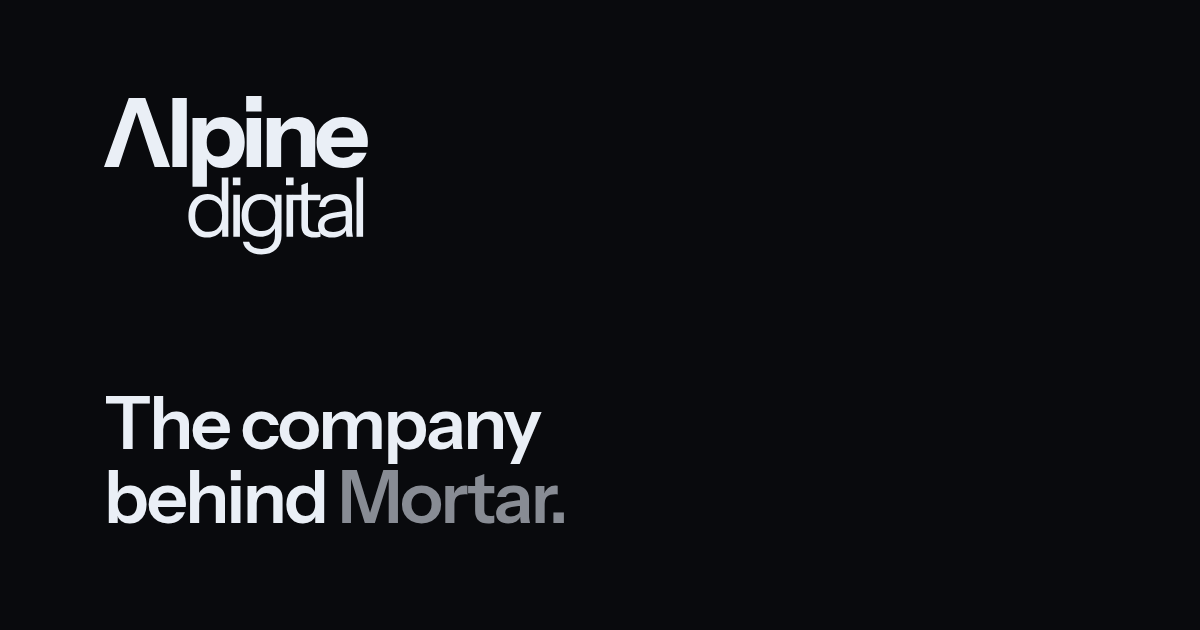
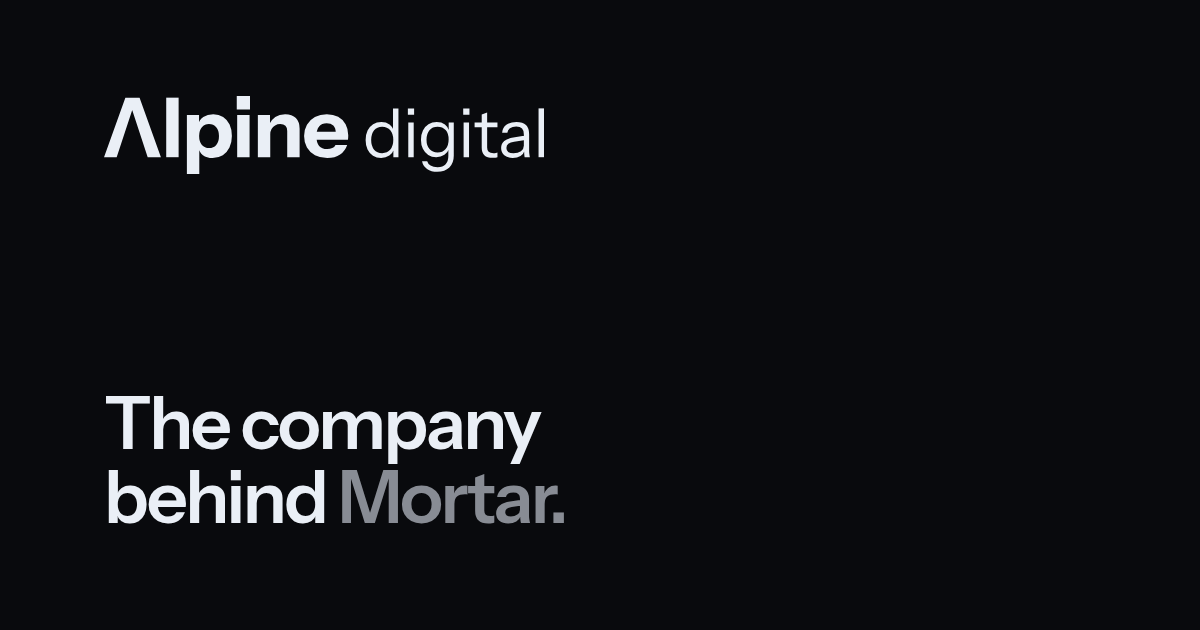
Set the wordmark in Instrument Sans, on one line, with a barless A
scripts/logo.py builds the logo from Instrument Sans: "Alpine" bold, then
"digital" regular and smaller on the same baseline, with the A's crossbar
left out. It writes Logo.svelte, alpine-digital.svg, the favicon and a
496-byte font holding only that A.

The h1 now sets the name the same way as real text, using that font for
the A alone. The nav and footer logos are resized for the wider shape,
and og.png is rebuilt.

Changed region(s): [[0.0617, 0.1508, 0.4625, 0.4222]]

diff --git a/src/lib/components/Logo.svelte b/src/lib/components/Logo.svelte
@@ -1,40 +1,34 @@
-<!-- Alpine Digital's logo: "Alpine" bold over "digital" light, in the colour of the text around it (ice white on the page). -->
+<!-- Alpine Digital's logo: "Alpine" bold then "digital" regular on one line, in Instrument Sans with the A's crossbar left out, in the colour of the text around it (ice white on the page). Built by scripts/logo.py. -->
 <script lang="ts">
   let { class: cls = "" }: { class?: string } = $props();
 </script>
 
-<svg class={cls} viewBox="0 0 352 212" fill="currentColor" aria-hidden="true">
+<svg class={cls} viewBox="0 0 679.73 120.75" fill="currentColor" aria-hidden="true">
+  <path d="M0 94.56 32.97 2.56H49.83L19.55 94.56ZM67.47 94.56 37.31 2.56H54.94L87.91 94.56Z" />
+  <path d="M96.09 94.56V2.56H115.26V94.56Z" />
   <path
-    d="M0 94.72L33.024 2.56H49.92L19.584 94.72H0ZM67.584 94.72L37.376 2.56H55.04L88.064 94.72H67.584Z"
+    d="M167.77 95.83Q158.44 95.83 152.82 91.49Q147.2 87.14 146.18 79.61L147.2 79.48V120.75H128.03V29.39H146.82V43.83L145.67 43.57Q147.07 36.42 153.33 32.26Q159.59 28.11 168.79 28.11Q177.61 28.11 184.06 32.26Q190.52 36.42 194.03 43.96Q197.54 51.49 197.54 61.72Q197.54 72.07 193.84 79.73Q190.13 87.4 183.49 91.62Q176.84 95.83 167.77 95.83ZM162.41 80.5Q169.18 80.5 173.39 75.64Q177.61 70.79 177.61 61.84Q177.61 52.9 173.33 48.17Q169.05 43.44 162.15 43.44Q155.51 43.44 151.22 48.24Q146.94 53.03 146.94 61.97Q146.94 70.92 151.22 75.71Q155.51 80.5 162.41 80.5Z"
   />
-  <path d="M91.178 94.72V2.56H110.378V94.72H91.178Z" />
+  <path d="M205.72 94.56V29.39H224.89V94.56ZM205.08 20.7V0H225.53V20.7Z" />
   <path
-    d="M157.806 96C151.577 96 146.585 94.5493 142.83 91.648C139.075 88.7467 136.857 84.7787 136.174 79.744L137.198 79.616V120.96H117.998V29.44H136.814V43.904L135.662 43.648C136.601 38.8693 139.161 35.1147 143.342 32.384C147.523 29.568 152.686 28.16 158.83 28.16C164.718 28.16 169.795 29.568 174.062 32.384C178.414 35.1147 181.742 38.9973 184.046 44.032C186.435 49.0667 187.63 54.9973 187.63 61.824C187.63 68.736 186.393 74.752 183.918 79.872C181.443 84.992 177.987 88.96 173.55 91.776C169.113 94.592 163.865 96 157.806 96ZM152.43 80.64C156.953 80.64 160.622 79.0187 163.438 75.776C166.254 72.5333 167.662 67.9253 167.662 61.952C167.662 55.9787 166.211 51.4133 163.31 48.256C160.494 45.0987 156.782 43.52 152.174 43.52C147.737 43.52 144.067 45.1413 141.166 48.384C138.35 51.5413 136.942 56.1067 136.942 62.08C136.942 68.0533 138.35 72.6613 141.166 75.904C144.067 79.0613 147.822 80.64 152.43 80.64Z"
-  />
-  <path d="M190.193 94.72V29.44H209.393V94.72H190.193ZM189.553 20.736V0H210.033V20.736H189.553Z" />
-  <path
-    d="M217.013 94.72V29.44H235.829V44.8H236.213V94.72H217.013ZM262.453 94.72V54.272C262.453 50.688 261.514 48 259.637 46.208C257.845 44.416 255.2 43.52 251.701 43.52C248.714 43.52 246.026 44.2027 243.637 45.568C241.333 46.9333 239.498 48.8107 238.133 51.2C236.853 53.5893 236.213 56.4053 236.213 59.648L234.549 43.904C236.682 39.1253 239.797 35.328 243.893 32.512C248.074 29.6107 253.194 28.16 259.253 28.16C266.506 28.16 272.053 30.208 275.893 34.304C279.733 38.3147 281.653 43.7333 281.653 50.56V94.72H262.453Z"
+    d="M237.67 94.56V29.39H256.45V44.72H256.83V94.56ZM283.03 94.56V54.18Q283.03 48.81 280.28 46.13Q277.53 43.44 272.29 43.44Q267.82 43.44 264.31 45.49Q260.79 47.53 258.81 51.11Q256.83 54.69 256.83 59.54L255.17 43.83Q258.37 36.67 264.56 32.39Q270.76 28.11 279.83 28.11Q290.69 28.11 296.44 34.18Q302.19 40.25 302.19 50.47V94.56Z"
   />
   <path
-    d="M319.303 96C312.05 96 305.735 94.592 300.359 91.776C294.983 88.8747 290.802 84.864 287.815 79.744C284.914 74.624 283.463 68.736 283.463 62.08C283.463 55.3387 284.914 49.4507 287.815 44.416C290.802 39.296 294.94 35.328 300.231 32.512C305.522 29.6107 311.666 28.16 318.663 28.16C325.404 28.16 331.25 29.5253 336.199 32.256C341.148 34.9867 344.988 38.784 347.719 43.648C350.45 48.512 351.815 54.2293 351.815 60.8C351.815 62.1653 351.772 63.4453 351.687 64.64C351.602 65.7493 351.474 66.816 351.303 67.84H294.727V55.168H335.815L332.487 57.472C332.487 52.1813 331.207 48.2987 328.647 45.824C326.172 43.264 322.759 41.984 318.407 41.984C313.372 41.984 309.447 43.6907 306.631 47.104C303.9 50.5173 302.535 55.6373 302.535 62.464C302.535 69.12 303.9 74.0693 306.631 77.312C309.447 80.5547 313.628 82.176 319.175 82.176C322.247 82.176 324.892 81.664 327.111 80.64C329.33 79.616 330.994 77.952 332.103 75.648H350.151C348.018 81.9627 344.348 86.9547 339.143 90.624C334.023 94.208 327.41 96 319.303 96Z"
+    d="M344.87 95.83Q334.01 95.83 325.96 91.55Q317.91 87.27 313.5 79.61Q309.09 71.94 309.09 61.97Q309.09 51.88 313.5 44.27Q317.91 36.67 325.83 32.39Q333.76 28.11 344.23 28.11Q354.33 28.11 361.74 32.2Q369.15 36.29 373.24 43.57Q377.33 50.86 377.33 60.69Q377.33 62.74 377.2 64.46Q377.07 66.19 376.82 67.72H320.34V55.07H361.36L358.03 57.37Q358.03 49.45 354.26 45.68Q350.49 41.91 343.98 41.91Q336.44 41.91 332.29 47.02Q328.13 52.13 328.13 62.36Q328.13 72.32 332.29 77.18Q336.44 82.03 344.74 82.03Q349.34 82.03 352.67 80.5Q355.99 78.97 357.65 75.52H375.67Q372.47 84.97 364.74 90.4Q357.01 95.83 344.87 95.83Z"
   />
   <path
-    d="M157.538 187.72V174.63L158.638 174.96C157.245 179.213 154.678 182.587 150.938 185.08C147.271 187.573 142.871 188.82 137.738 188.82C132.678 188.82 128.241 187.61 124.428 185.19C120.688 182.77 117.755 179.397 115.628 175.07C113.575 170.743 112.548 165.683 112.548 159.89C112.548 154.023 113.611 148.89 115.738 144.49C117.865 140.09 120.835 136.68 124.648 134.26C128.461 131.84 132.935 130.63 138.068 130.63C143.348 130.63 147.785 131.913 151.378 134.48C154.971 137.047 157.428 140.677 158.748 145.37L156.988 145.59V108.52H165.788V187.72H157.538ZM139.388 181.12C145.035 181.12 149.435 179.213 152.588 175.4C155.815 171.513 157.428 166.233 157.428 159.56C157.428 153.033 155.815 147.863 152.588 144.05C149.361 140.237 144.961 138.33 139.388 138.33C133.815 138.33 129.451 140.237 126.298 144.05C123.145 147.863 121.568 153.143 121.568 159.89C121.568 166.49 123.145 171.697 126.298 175.51C129.451 179.25 133.815 181.12 139.388 181.12Z"
+    d="M447.02 94.56V82.09L448.06 82.4Q446.07 88.48 440.78 92.04Q435.49 95.6 428.16 95.6Q420.93 95.6 415.53 92.15Q410.13 88.69 407.15 82.51Q404.16 76.32 404.16 68.05Q404.16 59.66 407.2 53.38Q410.24 47.09 415.69 43.63Q421.14 40.18 428.47 40.18Q436.01 40.18 441.15 43.84Q446.28 47.51 448.17 54.22L446.49 54.43V19.12H454.87V94.56ZM429.73 88.27Q437.79 88.27 442.35 82.77Q446.91 77.27 446.91 67.73Q446.91 58.41 442.3 52.96Q437.69 47.51 429.73 47.51Q421.76 47.51 417.26 52.96Q412.75 58.41 412.75 68.05Q412.75 77.48 417.26 82.87Q421.76 88.27 429.73 88.27Z"
+  />
+  <path d="M470.07 94.56V41.12H478.45V94.56ZM469.44 28.96V19.12H479.08V28.96Z" />
+  <path
+    d="M514.91 117.08Q505.38 117.08 499.04 112.63Q492.7 108.18 491.34 100.84H499.3Q500.45 105.03 504.49 107.5Q508.52 109.96 515.44 109.96Q523.61 109.96 527.8 105.5Q531.99 101.05 531.99 92.46V81.04L533.04 81.25Q531.26 87.33 525.91 90.94Q520.57 94.56 513.23 94.56Q506.21 94.56 500.87 91.15Q495.53 87.74 492.59 81.67Q489.66 75.59 489.66 67.52Q489.66 59.35 492.7 53.17Q495.74 46.99 501.24 43.58Q506.74 40.18 514.07 40.18Q521.62 40.18 526.7 43.84Q531.78 47.51 533.46 54.32L532.51 54.43V41.12H540.37V92.46Q540.37 103.88 533.56 110.48Q526.75 117.08 514.91 117.08ZM515.33 87.33Q523.19 87.33 527.8 81.88Q532.41 76.43 532.41 67.1Q532.41 57.99 527.8 52.7Q523.19 47.41 515.33 47.41Q507.37 47.41 502.81 52.75Q498.25 58.09 498.25 67.42Q498.25 76.53 502.86 81.93Q507.47 87.33 515.33 87.33Z"
+  />
+  <path d="M555.56 94.56V41.12H563.95V94.56ZM554.94 28.96V19.12H564.58V28.96Z" />
+  <path
+    d="M600.51 95.5Q591.61 95.5 587.57 91.46Q583.54 87.43 583.54 79.78V28.65L591.92 25.51V79.68Q591.92 84.18 594.23 86.28Q596.53 88.37 601.77 88.37Q603.87 88.37 605.39 88.11Q606.91 87.85 607.85 87.43V94.56Q606.8 94.97 604.86 95.24Q602.92 95.5 600.51 95.5ZM572.54 48.24V41.12H607.85V48.24Z"
   />
   <path
-    d="M172.437 187.72V131.62H181.237V187.72H172.437ZM171.777 118.86V108.52H181.897V118.86H171.777Z"
+    d="M649.87 94.56Q649.45 92.77 649.29 90.47Q649.13 88.16 649.13 84.6H648.61V59.04Q648.61 52.96 645.83 50.08Q643.05 47.2 636.87 47.2Q630.8 47.2 627.18 49.66Q623.57 52.12 623.15 56.63H615.08Q615.6 48.87 621.58 44.47Q627.55 40.07 637.19 40.07Q647.14 40.07 651.96 44.79Q656.78 49.5 656.78 58.93V84.6Q656.78 86.91 657.09 89.37Q657.41 91.83 657.93 94.56ZM631.53 95.6Q623.25 95.6 618.38 91.57Q613.51 87.54 613.51 80.52Q613.51 73.5 618.33 69.62Q623.15 65.74 632.37 64.17L651.02 61.03V67.94L633.62 70.67Q627.76 71.61 624.72 73.81Q621.68 76.01 621.68 80.2Q621.68 84.29 624.46 86.38Q627.23 88.48 632.68 88.48Q639.7 88.48 644.15 85.28Q648.61 82.09 648.61 76.95L649.97 84.39Q648.29 89.74 643.42 92.67Q638.55 95.6 631.53 95.6Z"
   />
-  <path
-    d="M209.978 211.37C203.305 211.37 197.731 209.793 193.258 206.64C188.858 203.56 186.181 199.453 185.228 194.32H193.588C194.395 197.253 196.191 199.563 198.978 201.25C201.838 203.01 205.688 203.89 210.528 203.89C216.248 203.89 220.575 202.313 223.508 199.16C226.441 196.08 227.908 191.533 227.908 185.52V173.53L229.008 173.75C227.761 178.003 225.268 181.413 221.528 183.98C217.788 186.473 213.351 187.72 208.218 187.72C203.305 187.72 198.978 186.547 195.238 184.2C191.498 181.78 188.601 178.443 186.548 174.19C184.495 169.937 183.468 164.987 183.468 159.34C183.468 153.62 184.531 148.597 186.658 144.27C188.785 139.943 191.755 136.607 195.568 134.26C199.455 131.84 203.965 130.63 209.098 130.63C214.378 130.63 218.778 131.913 222.298 134.48C225.891 137.047 228.275 140.713 229.448 145.48L228.458 145.59V131.62H236.708V185.52C236.708 193.513 234.325 199.82 229.558 204.44C224.791 209.06 218.265 211.37 209.978 211.37ZM210.418 180.13C215.918 180.13 220.281 178.223 223.508 174.41C226.735 170.597 228.348 165.427 228.348 158.9C228.348 152.52 226.735 147.497 223.508 143.83C220.281 140.09 215.918 138.22 210.418 138.22C204.845 138.22 200.445 140.09 197.218 143.83C194.065 147.57 192.488 152.703 192.488 159.23C192.488 165.61 194.101 170.707 197.328 174.52C200.555 178.26 204.918 180.13 210.418 180.13Z"
-  />
-  <path
-    d="M243.357 187.72V131.62H252.157V187.72H243.357ZM242.697 118.86V108.52H252.817V118.86H242.697Z"
-  />
-  <path
-    d="M281.008 188.71C274.775 188.71 270.228 187.317 267.368 184.53C264.581 181.67 263.188 177.563 263.188 172.21V118.53L271.988 115.23V172.1C271.988 175.253 272.794 177.563 274.408 179.03C276.021 180.497 278.661 181.23 282.328 181.23C283.795 181.23 285.041 181.157 286.068 181.01C287.168 180.79 288.048 180.533 288.708 180.24V187.72C287.975 188.013 286.911 188.233 285.518 188.38C284.198 188.6 282.695 188.71 281.008 188.71ZM251.638 139.1V131.62H288.708V139.1H251.638Z"
-  />
-  <path
-    d="M323.463 187.72C323.169 186.473 322.949 185.043 322.803 183.43C322.729 181.817 322.693 179.763 322.693 177.27H322.143V150.43C322.143 146.177 321.153 143.06 319.173 141.08C317.266 139.027 314.149 138 309.823 138C305.569 138 302.159 138.88 299.593 140.64C297.099 142.327 295.706 144.747 295.413 147.9H286.943C287.309 142.473 289.583 138.22 293.763 135.14C297.943 132.06 303.406 130.52 310.153 130.52C317.119 130.52 322.289 132.17 325.663 135.47C329.036 138.77 330.723 143.72 330.723 150.32V177.27C330.723 178.883 330.833 180.57 331.053 182.33C331.273 184.017 331.566 185.813 331.933 187.72H323.463ZM304.213 188.82C298.419 188.82 293.799 187.427 290.353 184.64C286.979 181.78 285.293 177.893 285.293 172.98C285.293 168.067 286.979 164.253 290.353 161.54C293.726 158.827 298.639 156.92 305.093 155.82L324.673 152.52V159.78L306.413 162.64C302.306 163.3 299.189 164.4 297.063 165.94C294.936 167.48 293.873 169.717 293.873 172.65C293.873 175.51 294.826 177.673 296.733 179.14C298.713 180.607 301.609 181.34 305.423 181.34C310.336 181.34 314.333 180.24 317.413 178.04C320.566 175.767 322.143 172.833 322.143 169.24L323.573 177.05C322.399 180.79 320.089 183.687 316.643 185.74C313.269 187.793 309.126 188.82 304.213 188.82Z"
-  />
-  <path d="M336.685 187.72V108.52H345.485V187.72H336.685Z" />
+  <path d="M671.34 94.56V19.12H679.73V94.56Z" />
 </svg>

diff --git a/src/app.css b/src/app.css
@@ -3,6 +3,17 @@
 @import "@fontsource-variable/instrument-sans/wght.css";
 @import "@fontsource-variable/instrument-sans/wght-italic.css";
 
+/* The wordmark's A: Instrument Sans's, bold, without its bar (scripts/logo.py
+   makes it). It covers only "A", so every other letter falls through to
+   Instrument Sans. Under 1KB, so the build inlines it. */
+@font-face {
+  font-family: "Alpine Wordmark A";
+  src: url("./lib/fonts/wordmark-a.woff2") format("woff2");
+  font-weight: 700;
+  font-display: block;
+  unicode-range: U+0041;
+}
+
 /* ---------------------------------------------------------------------------
    Alpine Digital — design tokens
 
@@ -122,6 +133,21 @@
   .display em {
     font-style: italic;
     letter-spacing: -0.03em;
+  }
+
+  /* The logo set as real text: the first word bold with the barless A, the
+     second regular, smaller and lowercase, on one baseline. Sizes and tracking
+     follow scripts/logo.py (DIGITAL, TRACK_ALPINE, TRACK_DIGITAL). */
+  .wordmark {
+    font-family: "Alpine Wordmark A", var(--font-sans);
+    font-weight: 700;
+    letter-spacing: -0.02em;
+  }
+  .wordmark-second {
+    font-weight: 400;
+    font-size: 0.82em;
+    letter-spacing: -0.015em;
+    text-transform: lowercase;
   }
 
   /* Data in the mono face: a number, never a sentence. */

diff --git a/src/routes/+page.svelte b/src/routes/+page.svelte
@@ -7,12 +7,16 @@
   import Nav from "#lib/components/Nav.svelte";
 
   const abn = abnLookup();
+  // The h1 sets the name as the logo does: "Alpine" bold, "digital" after it.
+  const [first, ...rest] = COMPANY.name.split(" ");
 </script>
 
 <Nav />
 <main id="main">
   <section class="wrap pt-12 pb-14 sm:pt-20 sm:pb-20">
-    <h1 class="display rise max-w-4xl text-display tracking-[-0.04em]">{COMPANY.name}</h1>
+    <h1 class="display wordmark rise max-w-4xl text-display">
+      {first} <span class="wordmark-second">{rest.join(" ")}</span>
+    </h1>
     <p class="lede rise mt-8 max-w-[38rem]" style="--i:1">{COMPANY.line}</p>
   </section>
 

diff --git a/src/lib/components/Nav.svelte b/src/lib/components/Nav.svelte
@@ -9,7 +9,7 @@
 <header class="bar sticky top-0 z-40 border-b border-line bg-night">
   <nav class="wrap flex min-h-16 items-center justify-between gap-4 py-2" aria-label="Main">
     <a href="#top" class="tap shrink-0" aria-label="{COMPANY.name}, top of the page">
-      <Logo class="h-8 w-auto" />
+      <Logo class="h-5 w-auto" />
     </a>
     <div class="flex min-w-0 items-center gap-5 text-small text-ink-2 sm:gap-8">
       <a class="tap hidden hover:text-ink lg:block" href="mailto:{COMPANY.email}"><Email /></a>

diff --git a/src/lib/components/Footer.svelte b/src/lib/components/Footer.svelte
@@ -12,7 +12,7 @@
     class="wrap grid grid-cols-1 gap-8 py-12 text-small text-ink-2 md:grid-cols-[minmax(0,1fr)_auto]"
   >
     <div class="grid gap-5">
-      <Logo class="h-10 w-auto justify-self-start text-ink" />
+      <Logo class="h-6 w-auto justify-self-start text-ink" />
       <p class="max-w-md text-caption text-ink-3">
         Minfos, FRED and Z are trademarks of their owners. Mortar is an independent product, and is
         not affiliated with or endorsed by any of them.

diff --git a/scripts/logo.py b/scripts/logo.py
@@ -1,0 +1,129 @@
+# Alpine Digital's wordmark, from Instrument Sans: "Alpine" bold then "digital" regular on one baseline,
+# with the A's crossbar left out. Writes the paths for src/lib/components/Logo.svelte,
+# static/alpine-digital.svg and static/favicon.svg, and src/lib/fonts/wordmark-a.woff2: a font holding only
+# that A, which the h1 (.wordmark in app.css) sets as real text. Then run node scripts/og.mjs.
+# Keep .wordmark's sizes and tracking in step with DIGITAL and the TRACK_ values here.
+# Needs fontTools and brotli:
+#   nix shell --impure --expr 'with import <nixpkgs> {}; python3.withPackages (p: [p.fonttools p.brotli])' -c python3 scripts/logo.py
+from fontTools.ttLib import TTFont
+from fontTools.pens.svgPathPen import SVGPathPen
+from fontTools.pens.transformPen import TransformPen
+from fontTools.pens.boundsPen import BoundsPen
+from fontTools.pens.recordingPen import DecomposingRecordingPen
+
+FONT = "node_modules/@fontsource-variable/instrument-sans/files/instrument-sans-latin-wght-normal.woff2"
+font = TTFont(FONT)
+cmap = font.getBestCmap()
+
+CAP = 92  # height of "Alpine"'s capital, in logo units
+SCALE = CAP / font["OS/2"].sCapHeight
+DIGITAL = 0.82  # "digital" size relative to "Alpine"
+SPACE = 210  # gap between the two words' ink, in font units (about a word space)
+TRACK_ALPINE = -0.02  # em
+TRACK_DIGITAL = -0.015
+
+
+def glyph(ch, wght):
+    gs = font.getGlyphSet(location={"wght": wght})
+    rec = DecomposingRecordingPen(gs)
+    gs[cmap[ord(ch)]].draw(rec)
+    if ch == "A":  # drop the crossbar: the A is two legs and a bar, the bar last
+        starts = [i for i, (op, _) in enumerate(rec.value) if op == "moveTo"]
+        rec.value = rec.value[: starts[2]]
+    adv = font.getGlyphSet(location={"wght": wght})[cmap[ord(ch)]].width
+    return rec, adv
+
+
+def word(text, wght, track):
+    """Glyph recordings with x offsets in font units, and the word's ink bounds."""
+    out, x = [], 0
+    for ch in text:
+        rec, adv = glyph(ch, wght)
+        out.append((rec, x))
+        x += adv + track * 1000
+    b = BoundsPen(None)
+    for rec, dx in out:
+        rec.replay(TransformPen(b, (1, 0, 0, 1, dx, 0)))
+    return out, b.bounds
+
+
+def paths(glyphs, scale, x0, baseline):
+    """One SVG path per glyph, y flipped, rounded to 0.01."""
+    res = []
+    for rec, dx in glyphs:
+        pen = SVGPathPen(None, ntos=lambda v: f"{round(v, 2):g}")
+        rec.replay(TransformPen(pen, (scale, 0, 0, -scale, x0 + dx * scale, baseline)))
+        res.append(pen.getCommands())
+    return res
+
+
+alpine, ab = word("Alpine", 700, TRACK_ALPINE)
+digital, db = word("digital", 400, TRACK_DIGITAL)
+ds = SCALE * DIGITAL
+
+a_left = -ab[0] * SCALE
+a_right = a_left + ab[2] * SCALE
+base = max(ab[3] * SCALE, db[3] * ds)  # tallest ink sits at y 0
+d_x0 = a_right + SPACE * SCALE - db[0] * ds
+p = paths(alpine, SCALE, a_left, base) + paths(digital, ds, d_x0, base)
+
+width = round(d_x0 + db[2] * ds, 2)
+height = round(base - min(ab[1] * SCALE, db[1] * ds), 2)
+w, h = f"{width:g}", f"{height:g}"
+print("viewBox", w, h)
+
+# Logo.svelte
+svelte = "src/lib/components/Logo.svelte"
+src = open(svelte).read()
+head = src[: src.index("<svg")]
+body = "\n".join(f'  <path d="{d}" />' for d in p)
+open(svelte, "w").write(
+    head + f'<svg class={{cls}} viewBox="0 0 {w} {h}" fill="currentColor" aria-hidden="true">\n{body}\n</svg>\n'
+)
+
+# static/alpine-digital.svg
+body = "\n".join(f'<path d="{d}" fill="#EAEFF6"/>' for d in p)
+open("static/alpine-digital.svg", "w").write(
+    f'<svg width="{w}" height="{h}" viewBox="0 0 {w} {h}" fill="none" xmlns="http://www.w3.org/2000/svg">\n{body}\n</svg>\n'
+)
+
+# static/favicon.svg: the A alone, centred in a 32px tile
+rec, _ = glyph("A", 700)
+b = BoundsPen(None)
+rec.replay(b)
+x0, y0, x1, y1 = b.bounds
+s = 19 / (y1 - y0)
+pen = SVGPathPen(None, ntos=lambda v: f"{round(v, 2):g}")
+tx = 16 - (x0 + x1) / 2 * s
+ty = 16 + (y0 + y1) / 2 * s
+rec.replay(TransformPen(pen, (s, 0, 0, -s, tx, ty)))
+open("static/favicon.svg", "w").write(
+    '<svg xmlns="http://www.w3.org/2000/svg" viewBox="0 0 32 32">\n'
+    '  <rect width="32" height="32" rx="7" fill="#090a0d"/>\n'
+    f'  <path d="{pen.getCommands()}" fill="#EAEFF6"/>\n'
+    "</svg>\n"
+)
+
+# src/lib/fonts/wordmark-a.woff2: Instrument Sans's A at weight 700 without its bar, and nothing else
+from fontTools.varLib import instancer
+from fontTools.subset import Subsetter, Options
+from fontTools.ttLib.tables._g_l_y_f import GlyphCoordinates
+
+a_font = instancer.instantiateVariableFont(TTFont(FONT), {"wght": 700})
+opts = Options()
+opts.layout_features = []
+opts.name_IDs = [1, 2]
+sub = Subsetter(opts)
+sub.populate(unicodes=[ord("A")])
+sub.subset(a_font)
+glyf = a_font["glyf"]
+a = glyf[a_font.getBestCmap()[ord("A")]]
+assert a.numberOfContours == 3, "expected the A as two legs and a bar"
+keep = a.endPtsOfContours[1] + 1
+a.coordinates = GlyphCoordinates(a.coordinates[:keep])
+a.flags = a.flags[:keep]
+a.endPtsOfContours = a.endPtsOfContours[:2]
+a.numberOfContours = 2
+a.recalcBounds(glyf)
+a_font.flavor = "woff2"
+a_font.save("src/lib/fonts/wordmark-a.woff2")
